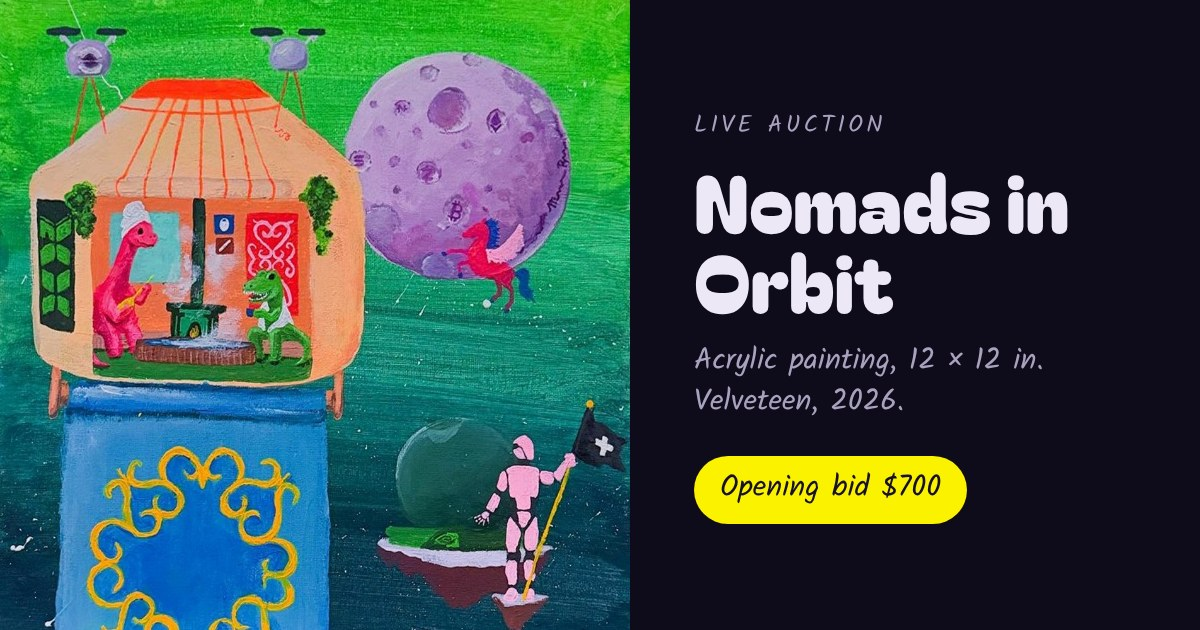
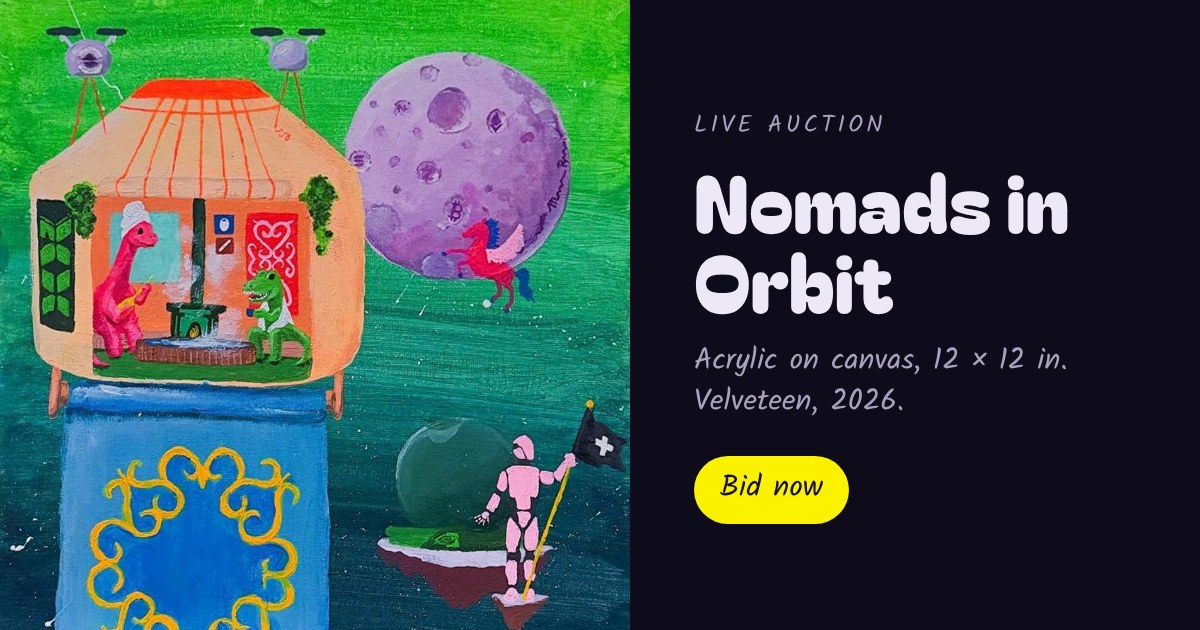
Auction: hide starting price, remove bid cap; caption says acrylic on canvas
Claude-Session: https://claude.ai/code/session_017AV6bahzA9xvR27i1UicVL

Changed region(s): [[0.5858, 0.7238, 0.8325, 0.8444], [0.6475, 0.5429, 0.8942, 0.6032]]

diff --git a/src/auction/AuctionPage.tsx b/src/auction/AuctionPage.tsx
@@ -17,7 +17,7 @@ interface AState {
   highBid: number
   bidCount: number
   highBidderLabel: string | null
-  minNext: number
+  minNext: number | null
   reserveMet: boolean | null
   bids: PublicBid[]
   publishableKey: string
@@ -202,18 +202,18 @@ function RegisterForm({ publishableKey, onDone }: { publishableKey: string; onDo
 }
 
 function BidForm({ s, me, onState, onSignOut }: { s: AState; me: Me; onState: (s: AState) => void; onSignOut: () => void }) {
-  const [amount, setAmount] = useState(String(s.minNext))
+  const [amount, setAmount] = useState(s.minNext === null ? '' : String(s.minNext))
   const [confirm, setConfirm] = useState(false)
   const [busy, setBusy] = useState(false)
   const [msg, setMsg] = useState<{ ok: boolean; text: string } | null>(null)
   const touched = useRef(false)
 
   useEffect(() => {
-    if (!touched.current) setAmount(String(s.minNext))
+    if (!touched.current) setAmount(s.minNext === null ? '' : String(s.minNext))
   }, [s.minNext])
 
   const n = Number(amount)
-  const valid = Number.isInteger(n) && n >= s.minNext
+  const valid = Number.isInteger(n) && n > 0 && (s.minNext === null || n >= s.minNext)
   const leading = s.highBidderLabel === me.label
 
   async function place() {
@@ -261,7 +261,9 @@ function BidForm({ s, me, onState, onSignOut }: { s: AState; me: Me; onState: (s
           />
         </div>
       </label>
-      <p className="a-note">Minimum {usd(s.minNext)}. No buyer’s premium.</p>
+      <p className="a-note">
+        {s.minNext === null ? 'Enter the amount you wish to bid.' : `Minimum ${usd(s.minNext)}.`} No buyer’s premium.
+      </p>
       {!confirm ? (
         <button className="a-btn" disabled={!valid || leading} onClick={() => setConfirm(true)}>
           Place bid
@@ -325,15 +327,15 @@ export default function AuctionPage() {
         <section className="a-info" aria-labelledby="a-title">
           <p className="a-eyebrow">Auction</p>
           <h1 id="a-title">Nomads in Orbit</h1>
-          <p className="a-sub">Velveteen, 2026. Acrylic painting, 12 × 12 in.</p>
+          <p className="a-sub">Velveteen, 2026. Acrylic on canvas, 12 × 12 in.</p>
 
           {offline && !s && <p className="a-note">Live bidding is unavailable right now. Please check back soon.</p>}
 
           {s && (
             <>
               <div className="a-price">
-                <small>{s.bidCount ? 'Current bid' : 'Opening bid'}</small>
-                <b>{usd(s.bidCount ? s.highBid : 700)}</b>
+                <small>Current bid</small>
+                <b>{s.bidCount ? usd(s.highBid) : 'No bids yet'}</b>
                 <span className="a-meta">
                   {s.bidCount} {s.bidCount === 1 ? 'bid' : 'bids'}
                   {s.reserveMet === false && ' · Reserve not met'}
@@ -389,7 +391,7 @@ export default function AuctionPage() {
               ))}
             </ol>
           ) : (
-            <p className="a-note">No bids yet. Opening bid {usd(700)}.</p>
+            <p className="a-note">No bids yet.</p>
           )}
         </div>
         <div>
@@ -413,6 +415,7 @@ export default function AuctionPage() {
         <h2 id="terms-h">Bidder terms</h2>
         <ol>
           <li><b>Registration.</b> To bid, you register with your name, email and a card. The card is saved with Stripe and is not charged when you register. Velveteen Gallery never sees your card number.</li>
+          <li><b>Starting price.</b> The painting has a starting price that is not published. Bids below it are not accepted. There is no upper limit on bids.</li>
           <li><b>Bids are binding.</b> A bid is an offer to buy at that price. Minimum raises are $25 up to $1,000, $50 up to $2,500, $100 up to $5,000, and $250 above that.</li>
           <li><b>Reserve.</b> The painting is offered with a reserve price that is not published. The page shows whether the reserve has been met. If the reserve is not met by the close, the seller is not obliged to sell.</li>
           <li><b>Closing.</b> The auction closes at the time shown. A bid placed in the final 10 minutes extends the close by 10 minutes, every time, until no bid arrives in the last 10 minutes.</li>

diff --git a/api/_lib/auction.ts b/api/_lib/auction.ts
@@ -3,7 +3,6 @@
 export const SNIPE_WINDOW_MS = 10 * 60 * 1000
 export const SNIPE_EXTEND_MS = 10 * 60 * 1000
 export const START_BID = 700
-export const MAX_BID = 100_000
 
 /** Minimum raise, in USD, based on the current high bid. */
 export function increment(high: number): number {
@@ -71,13 +70,19 @@ export function checkBid(cfg: Config, core: Core, bidderId: string, amount: numb
   if (st === 'upcoming') return { ok: false, code: 'not_open', message: 'Bidding has not opened yet.' }
   if (st === 'closed') return { ok: false, code: 'closed', message: 'This auction has closed.' }
   if (!Number.isInteger(amount)) return { ok: false, code: 'bad_amount', message: 'Enter a whole dollar amount.' }
-  if (amount > MAX_BID)
-    return { ok: false, code: 'bad_amount', message: `Bids above $${MAX_BID.toLocaleString('en-US')} need to be arranged directly.` }
   if (core.highBidder === bidderId)
     return { ok: false, code: 'already_high', message: 'You are already the high bidder.' }
   const min = minNextBid(core.highBid)
   if (amount < min)
-    return { ok: false, code: 'too_low', message: `The minimum bid is $${min.toLocaleString('en-US')}.` }
+    return {
+      ok: false,
+      code: 'too_low',
+      // The starting price is not published, so the first bid is not told the number.
+      message:
+        core.highBid === 0
+          ? 'Your bid is below the starting price.'
+          : `The minimum bid is $${min.toLocaleString('en-US')}.`,
+    }
   const extended = core.endsAt - now <= SNIPE_WINDOW_MS
   return { ok: true, endsAt: extended ? core.endsAt + SNIPE_EXTEND_MS : core.endsAt, extended }
 }

diff --git a/scripts/auction-test.ts b/scripts/auction-test.ts
@@ -125,8 +125,11 @@ await t('bid rules: start, increments, no self-outbid', async () => {
   const { d } = mk()
   const a = await join(d, 'Ann Lee')
   const b = await join(d, 'Bo Chen', 'b@b.co')
+  const s0: any = await getState(d)
+  assert.equal(s0.body.minNext, null, 'starting price must not be published')
   let r: any = await placeBid(d, { token: a.token, amount: 699 })
   assert.equal(r.body.error, 'too_low')
+  assert.ok(!/\d/.test(r.body.message), 'rejection must not reveal the starting price')
   r = await placeBid(d, { token: a.token, amount: 700.5 })
   assert.equal(r.body.error, 'bad_amount')
   r = await placeBid(d, { token: a.token, amount: 700 })
@@ -139,8 +142,9 @@ await t('bid rules: start, increments, no self-outbid', async () => {
   assert.equal(r.status, 200)
   assert.equal(r.body.state.highBid, 725)
   assert.equal(r.body.state.highBidderLabel, 'Bidder 2')
-  r = await placeBid(d, { token: b.token, amount: 100001 })
-  assert.equal(r.body.error, 'bad_amount')
+  r = await placeBid(d, { token: a.token, amount: 250000 }) // no cap on bids
+  assert.equal(r.status, 200)
+  assert.equal(r.body.state.highBid, 250000)
 })
 
 await t('reserve stays hidden and flips when met', async () => {

diff --git a/auction/index.html b/auction/index.html
@@ -4,11 +4,11 @@
 <meta charset="UTF-8">
 <meta name="viewport" content="width=device-width, initial-scale=1.0">
 <title>Auction: Nomads in Orbit | Velveteen Gallery</title>
-<meta name="description" content="Live auction of Nomads in Orbit, a 12 × 12 in acrylic painting by Velveteen, made in Astana, Kazakhstan in 2026. Opening bid $700.">
+<meta name="description" content="Live auction of Nomads in Orbit, a 12 × 12 in acrylic on canvas painting by Velveteen, made in Astana, Kazakhstan in 2026.">
 <meta property="og:type" content="website">
 <meta property="og:site_name" content="Velveteen Gallery">
 <meta property="og:title" content="Auction: Nomads in Orbit">
-<meta property="og:description" content="Live auction of a 12 × 12 in acrylic painting by Velveteen. Opening bid $700.">
+<meta property="og:description" content="Live auction of a 12 × 12 in acrylic on canvas painting by Velveteen.">
 <meta property="og:url" content="https://www.velveteengallery.art/auction/">
 <meta property="og:image" content="https://www.velveteengallery.art/og.jpg">
 <meta property="og:image:width" content="1200">

diff --git a/src/spec.ts b/src/spec.ts
@@ -4,9 +4,7 @@ export const CONTACT = 'https://ig.me/m/velveteengallery'
 export const SPEC: [string, string][] = [
   ['Title', 'Nomads in Orbit'],
   ['Year', '2026, Astana, Kazakhstan'],
-  ['Medium', 'Acrylic painting; digital illustration with looping animation'],
-  ['Surface', ''],
-  ['Paint', ''],
+  ['Medium', 'Acrylic on canvas. Also a digital illustration with looping animation'],
   ['Dimensions', 'Painting 12 × 12 in (30.5 × 30.5 cm). Digital 6912 × 3840 px, animated'],
   ['Tools', 'Wacom Cintiq Pro, Adobe Photoshop (about 2,945 layers)'],
   ['Edition', 'Painting: unique original'],

diff --git a/api/_lib/handlers.ts b/api/_lib/handlers.ts
@@ -42,7 +42,7 @@ async function snapshot(d: Deps, cfg: Config) {
       highBid: core.highBid,
       bidCount: core.bidCount,
       highBidderLabel: bids.length ? bids[bids.length - 1].label : null,
-      minNext: minNextBid(core.highBid),
+      minNext: core.highBid > 0 ? minNextBid(core.highBid) : null, // starting price is not published
       reserveMet: reserveMet(cfg, core), // true / false / null (no reserve). The reserve amount is never sent.
       bids: bids
         .slice()
